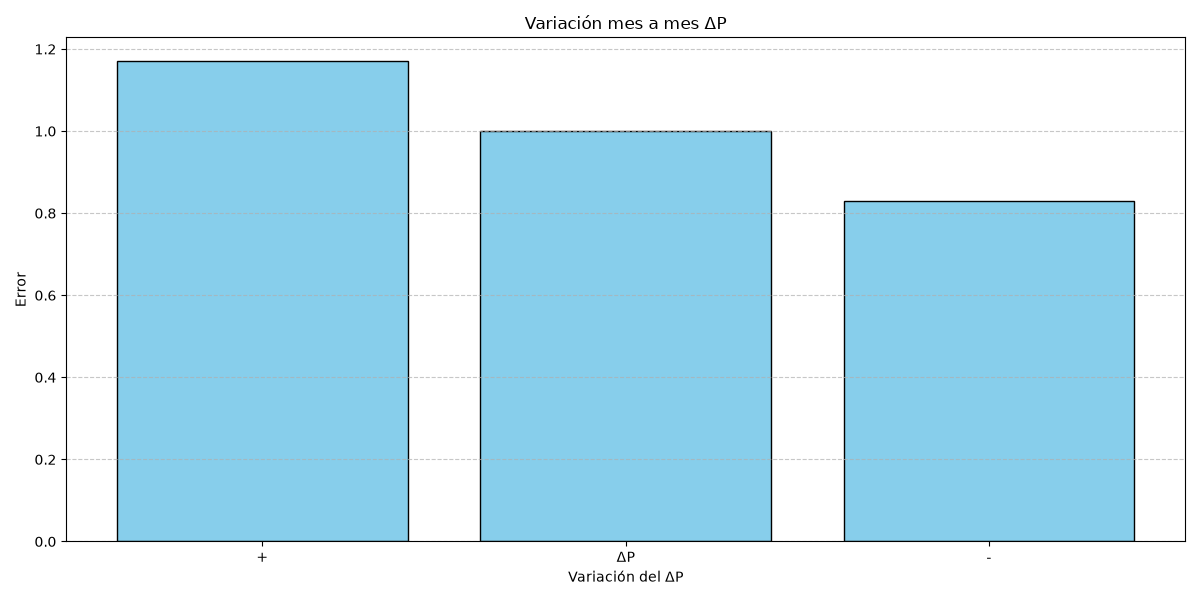
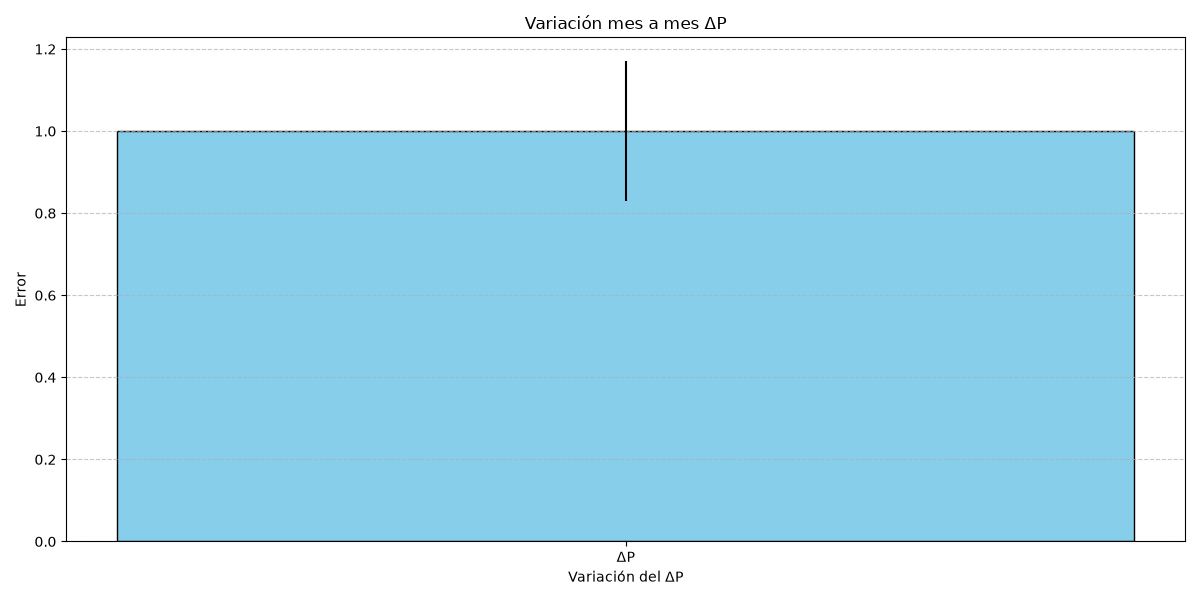
Cambio CSV y Grafico mes mes

Changed region(s): [[0.6167, 0.21, 0.9558, 0.9], [0.0925, 0.09, 0.4008, 0.9]]

diff --git a/src/errores.py b/src/errores.py
@@ -1,29 +1,24 @@
 import numpy as np
 import cargar_datos as cd
 import matplotlib.pyplot as plt
-
+import anualidad as an
+import os
 ######################## Funciones de error y operaciones #################################################
-# Lista temporal para acumular las filas antes de convertirlas a un arreglo de numpy
-registro_errores_laboratorio = []
-
-def registrar_evaluacion_error(par_puntos, anio, error_absoluto, error_relativo, error_propagado):
-    """
-    Agrega una fila de datos a nuestro registro temporal.
-    """
-    fila = [par_puntos, str(anio), str(error_absoluto), str(error_relativo), str(error_propagado)]
-    registro_errores_laboratorio.append(fila)
-
-def exportar_csv_evaluacion(nombre_archivo="evaluacion_errores.csv"):
-    """
-    Convierte el registro en un arreglo de numpy y lo exporta a CSV.
-    """
-    matriz_datos = np.array(registro_errores_laboratorio, dtype=str)
+def registrar_evaluacion_error(ej_descripcion, punto1, punto2, valor_real, valor_aprox, error_absoluto, error_relativo, error_propagado="N/A", ruta_archivo="evaluacion_errores.csv"):
+    '''
+        Función para Guardar los datos recopilados en un archivo csv, guardandandolos de manera progresiva mientras avanza el programa. (Se recomienda eliminar el archivo csv antes de volver a ejecutar este codigo.) 
+    '''
+    fila = np.array([[
+        str(ej_descripcion), str(punto1), str(punto2), str(valor_real), str(valor_aprox), str(error_absoluto), str(error_relativo),str(error_propagado)]], dtype=str)
     
-    encabezados = "Par_Puntos_Evaluado,Anio,Error_Absoluto,Error_Relativo_Porcentual,Error_Propagado_Final"
+    archivo_existe = os.path.isfile(ruta_archivo)
     
-    np.savetxt(nombre_archivo, matriz_datos, delimiter=',', header=encabezados, fmt='%s', comments='')
-    
-    print(f"\nArchivo {nombre_archivo} generado exitosamente usando numpy.")
+    with open(ruta_archivo, mode='a', encoding='utf-8') as archivo:
+        if not archivo_existe:
+            # Si el archivo es nuevo, escribimos los encabezados que pide el laboratorio
+            archivo.write("Ejercicio_descripcion,Punto1,Punto2,Valor_Real,Valor_Aproximado,Error_Absoluto,Error_relatico,Error_Propagado\n")
+        
+        np.savetxt(archivo, fila, delimiter=',', fmt='%s')
 
 def numero_cientifico(x, c_s = None, truncar = False, truncar_cifras = 2):
     '''
@@ -152,8 +147,19 @@ def representation_error():
     # Buscamos el error relativo máximo y su índice para poder imprimir el mes y año correspondiente.
     max_er_relativo = max(num_red_err_abs_rel[1])
     ind_max_er_relativo = num_red_err_abs_rel[1].index(max_er_relativo)
-    print("El error relativo máximo se encuentra en el mes", datos_csv[ind_max_er_relativo][1],"del año", datos_csv[ind_max_er_relativo][0], "con un valor de: ", numero_cientifico(max_er_relativo, 0, True, 2)[0][0], "%")
-    
+    print("El error relativo máximo se encuentra en el mes", datos_csv[ind_max_er_relativo][1],"del año", datos_csv[ind_max_er_relativo][0], "con un valor de: ", numero_cientifico(max_er_relativo[0], 0, True, 2)[0][0], "%")
+    for datos in range(len(num_red_err_abs_rel[3])):
+        registrar_evaluacion_error(
+                ej_descripcion= "A1 representacion de error en los datos",
+                punto1= f"{datos_csv[datos][0]} - {datos_csv[datos][1]}",
+                punto2= f"N/A",
+                valor_real= f"{num_red_err_abs_rel[3][datos]}",
+                valor_aprox= f"{num_red_err_abs_rel[2][datos]}",
+                error_absoluto= f"{num_red_err_abs_rel[0][datos]}",
+                error_relativo= f"{num_red_err_abs_rel[1][datos]}",
+                ruta_archivo= "./data/evaluacion_errores.csv"
+            )
+
     # Zona de Grafico de Barras
     meses_x = range(len(num_red_err_abs_rel[1]))
     valores_y = np.array(num_red_err_abs_rel[1], dtype=float).flatten()
@@ -224,7 +230,7 @@ def evaluacion_compra_venta(monto_inicial, indice_compra, indice_venta, propio=0
 
     #Pasar a error absoluto para arrastrar a la ganancia
     error_absoluto_final = (error_relativo_total * monto_final) / 100
-    
+    error_porcentual_ganancia = 0
     #Calculo del error porcentual de la ganancia se ocupa valor absoluto de la ganancia para que no de negativo, y se multiplica por 100 para pasarlo a porcentaje
     if ganancia_obtenida != 0:
         error_porcentual_ganancia = (error_absoluto_final / np.abs(ganancia_obtenida)) * 100
@@ -234,6 +240,17 @@ def evaluacion_compra_venta(monto_inicial, indice_compra, indice_venta, propio=0
         error_porcentual_ganancia = float('inf') # Si la ganancia es 0, el error es infinito
         print(f"Ganancia obtenida: {numero_cientifico(ganancia_obtenida, 0, True, 2)[0][0]} ± {numero_cientifico(error_absoluto_final[0], 0, True, 2)[0][0]} pesos")
         print(f"Error porcentual de la ganancia: {error_porcentual_ganancia}%")
+
+    registrar_evaluacion_error(
+                    ej_descripcion= "A2 Evaluacion compra-venta",
+                    punto1= f"{datos_csv[indice_compra][1]}-{datos_csv[indice_compra][0]}:{num_red_err_abs_rel[2][indice_compra]}",
+                    punto2= f"{datos_csv[indice_venta][1]}-{datos_csv[indice_venta][0]}:{num_red_err_abs_rel[2][indice_venta]}",
+                    valor_real= f"{ganancia_obtenida}",
+                    valor_aprox= f"N/A",
+                    error_absoluto= f"{error_absoluto_final[0]}",
+                    error_relativo= f"{error_porcentual_ganancia}",
+                    ruta_archivo= "./data/evaluacion_errores.csv"
+                )
     
     return [monto_final, ganancia_obtenida, rentabilidad_obtenida, error_absoluto_final, error_porcentual_ganancia]
 
@@ -255,7 +272,7 @@ def mejor_compra_venta(monto_inicial = 1000000):
     print("El mejor precio de venta se encuentra en el mes", datos_csv[ind_mejor_venta][1],"del año", datos_csv[ind_mejor_venta][0], "con un valor de: ", mejor_venta)
 
     # Calculamos el resultado de comprar 1,000,000 de pesos chilenos en el mejor mes de compra y venderlos en el mejor mes de venta, junto con su error relativo total.
-    resultado = evaluacion_compra_venta(monto_inicial, ind_mejor_compra, ind_mejor_venta)
+    resultado = evaluacion_compra_venta(monto_inicial, ind_mejor_compra, ind_mejor_venta, propio=1)
 
     #Para el apartado grafico realizaremos un escaneo de la rentabilidad en cada mes y lo llevaremos a un grafico de barras con su error para ver como se ven los errores
     rentables = []
@@ -290,15 +307,14 @@ def mejor_compra_venta(monto_inicial = 1000000):
 
 if __name__ == "__main__":
 #Zona de uso de las funciones, solo desmarcar la que se requiera usar.
-    #representation_error()
-    #evaluacion_compra_venta(1000000, 13, 36)
-    #cancelacion()
-    #variacion_anual()
-    #mejor_compra_venta()
+    representation_error()
+    evaluacion_compra_venta(1000000, 13, 36)
+    an.cancelacion()
+    an.variacion_anual()
+    mejor_compra_venta()
 
 ###########Usar grafico serie mensual#################
-    datos_csv = cd.obtener_datos()
-    num_red_real_err_abs_rel = sacar_numero_redondeado_error_absoluto_relativo(datos_csv)
-    precios = num_red_real_err_abs_rel[3]
-    grafico_serie_mensual_dolar(precios)
-    pass
+    #datos_csv = cd.obtener_datos()
+    #num_red_real_err_abs_rel = sacar_numero_redondeado_error_absoluto_relativo(datos_csv)
+    #precios = num_red_real_err_abs_rel[3]
+    #grafico_serie_mensual_dolar(precios)

diff --git a/src/anualidad.py b/src/anualidad.py
@@ -24,17 +24,22 @@ def cancelacion():
     print(f"ΔP {delta_p} ± {error_propagados}, su error porcentual es {(error_propagados / delta_p) * 100}%")
 
     er.registrar_evaluacion_error(
-        par_puntos="Variacion noviembre 2022 y mayo 2024",
-        anio="2022-2024",
-        error_absoluto=f"{error_abs_nov:.2f} y {error_abs_may:.2f}",
-        error_relativo="N/A",
-        error_propagado= error_propagados
+        ej_descripcion= "A3 Cancelacion",
+        punto1= "Nov-2022",
+        punto2= "May-2024",
+        valor_real= f"Nov-2022: {num_red_real_err_abs_rel[3][10]} - May_2024: {num_red_real_err_abs_rel[3][28]}",
+        valor_aprox= f"Nov-2022: {dolar_nov_22} - May_2024: {dolar_may_24}",
+        error_absoluto= f"Nov-2022: {error_abs_nov} - May_2024: {error_abs_may}",
+        error_relativo= f"{(error_propagados / delta_p) * 100}",
+        error_propagado= f"{error_propagados}",
+        ruta_archivo= "./data/evaluacion_errores.csv"
     )
     # Zona de Grafico de Barras
-    meses_x = ["+", "ΔP", "-"]
-    valores_y = [np.float64(delta_p + error_propagados), np.float64(delta_p), np.float64(delta_p - error_propagados)]
+    meses_x = ["ΔP"]
+    valores_y = [np.float64(delta_p)]
+    error = [error_propagados]
     fig, ax = plt.subplots(figsize=(12, 6))
-    ax.bar(meses_x, valores_y, color='skyblue', edgecolor='black')
+    ax.bar(meses_x, valores_y, yerr = error,color='skyblue', edgecolor='black')
 
     ax.set_xlabel('Variación del ΔP')
     ax.set_ylabel('Error')
@@ -63,6 +68,17 @@ def variacion_anual():
         resultado_resta, error_propagado, error_relativo_total = er.propagacion_resta(precio_enero, precio_diciembre, errores_absolutos[i], errores_absolutos[i+11])
         errores_propagado.append(error_propagado)
         errores_relativos_totales.append(error_relativo_total)
+        er.registrar_evaluacion_error(
+                ej_descripcion= "A4 Variacion Anual",
+                punto1= f"Enero-{datos_csv[i][0]}",
+                punto2= f"Diciembre-{datos_csv[i+11][0]}",
+                valor_real= f"Nov-2022: {num_red_real_err_abs_rel[3][i]} - May_2024: {num_red_real_err_abs_rel[3][i+11]}",
+                valor_aprox= f"Enero-{datos_csv[i][0]}: {precio_enero} - Diciembre-{datos_csv[i+11][0]}: {precio_diciembre}",
+                error_absoluto= f"N/A",
+                error_relativo= f"{error_relativo_total}",
+                error_propagado= f"{error_propagado}",
+                ruta_archivo= "./data/evaluacion_errores.csv"
+            )
     #Buscaremos el maximo error porcentual
     max_er_relativo = max(errores_relativos_totales)
     #Buscaremos el indice del valor maximo, para obtener el año y el mes del error porcentual
@@ -74,5 +90,4 @@ if __name__ == "__main__":
 #Zona de uso de las funciones, solo desmarcar la que se requiera usar.
     #cancelacion()
     #variacion_anual
-    #er.exportar_csv_evaluacion("./data/evaluacion_errores.csv")
     pass
